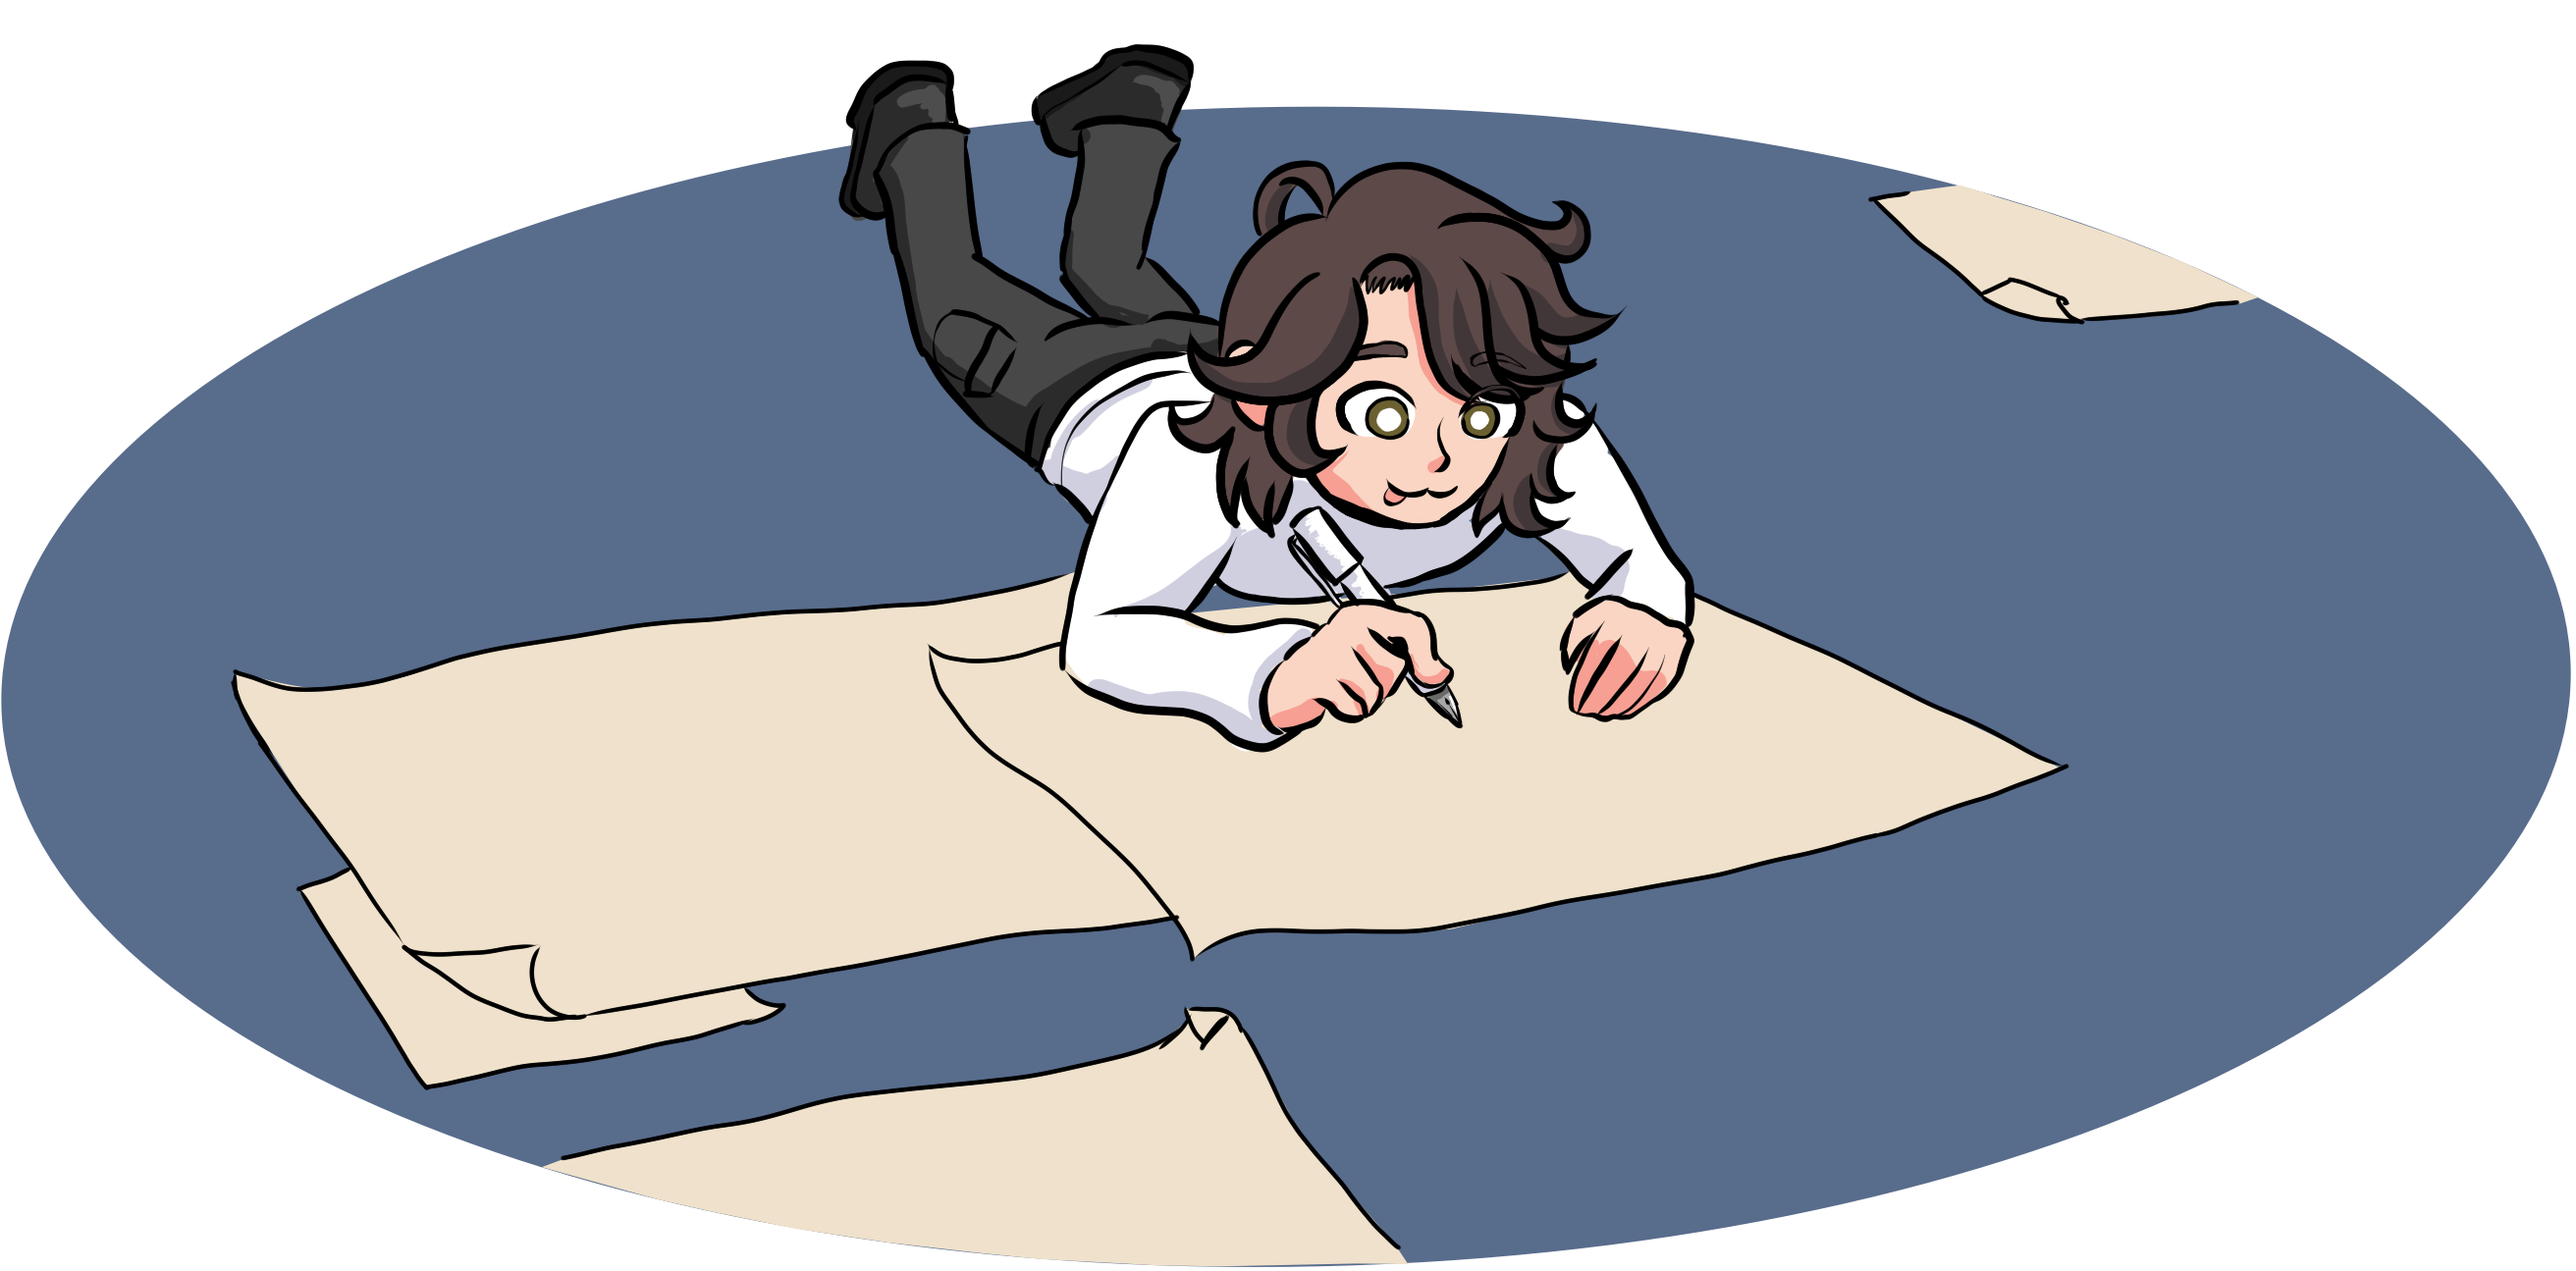
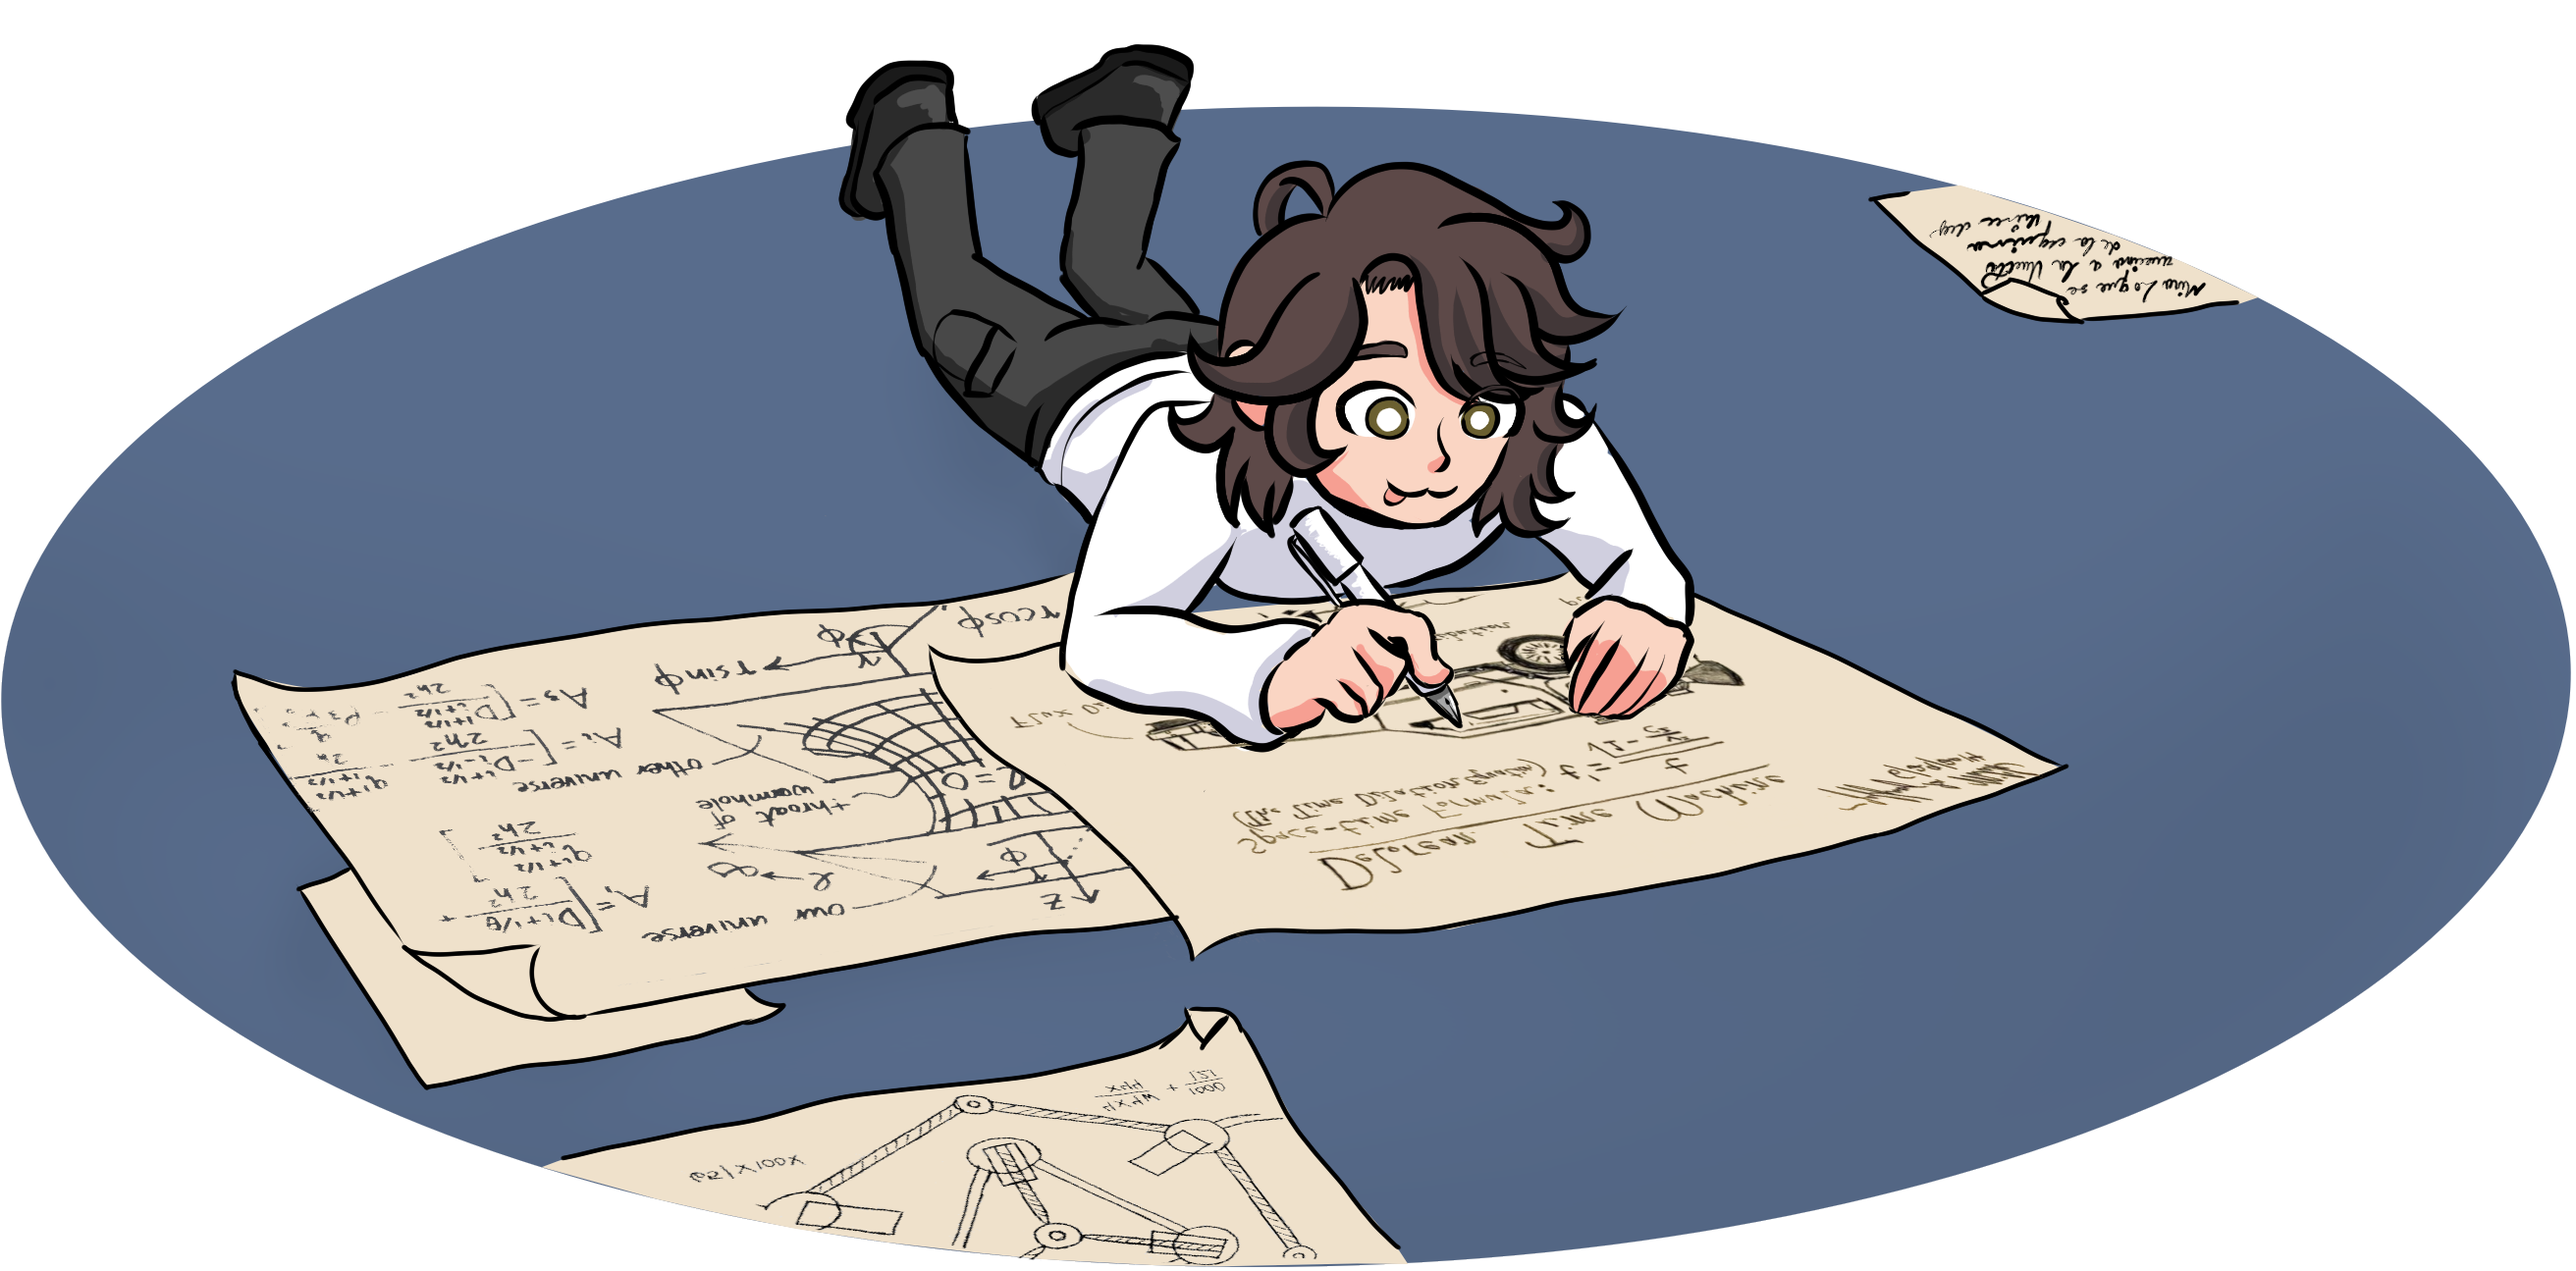
Adiciones al proyecto "swimming Touchpads"

diff --git a/imple/legar-swimmingTP.html b/imple/legar-swimmingTP.html
@@ -23,7 +23,7 @@
         <div class="box box-cover">
             <div id="blueprintFrame">
                 <H1>Swimming Touch Pads LEGAR</H1>
-
+                <img src="/assets/swimmingTP.png" alt="Swimming Touchpad" id="pjtCover">
             </div>
         </div>
     </div>
@@ -33,18 +33,23 @@
         <div class="fichaDeDatos">
             <!-- aquí van los datos básicos del proyecto -->
              <div class="descripcion">
+                <p>
+                    Diseño y desarrollo de un sistema electrónico de cronometraje automatizado para natación, reduciendo el error humano en la medición de tiempos competitivos mediante sensores de impacto piezoeléctricos y procesamiento en tiempo real.
+                </p>
                 <p>Se trata de un sistema de detección de toque para competencias de natación. El cual usé como proyecto de residencias y como medio de titulación.</p>
              </div>
              <div class="estado"><!--contiene al indicador de estado y su texto.-->
                 <div class="indEdo edoImplementado"></div>
-                <p class="edoLabel">Estado= Implementado.</div>
+                <p class="edoLabel">Estado = Implementado.</div>
                 <p class="edoLabel edoLabelDesc">(Será retomado por el proximo residente en la empresa para su perfeccionamiento).</p>
              </div>
         </div>
      </div>
      <div class="blockContainer"id="pyt">
         <div id="secureBar"></div>
-        <!-- <div class="cardContainer" id="pyt"></div> -->
+        <div class="cardContainer" id="pyt">
+
+        </div>
      </div>
         
 </body>

diff --git a/indev/arduBox.html b/indev/arduBox.html
@@ -58,7 +58,7 @@
     <div class="blockContainer" id="pyt">
         <div id="secureBar"></div>
         <div class="cardContainer" id="pyt">
-            <a class="box boxProject" id="imp">
+            <a class="box boxProject" id="imp" href="/en-espera.html">
                 <p>
                     DevLogs
                 </p>
